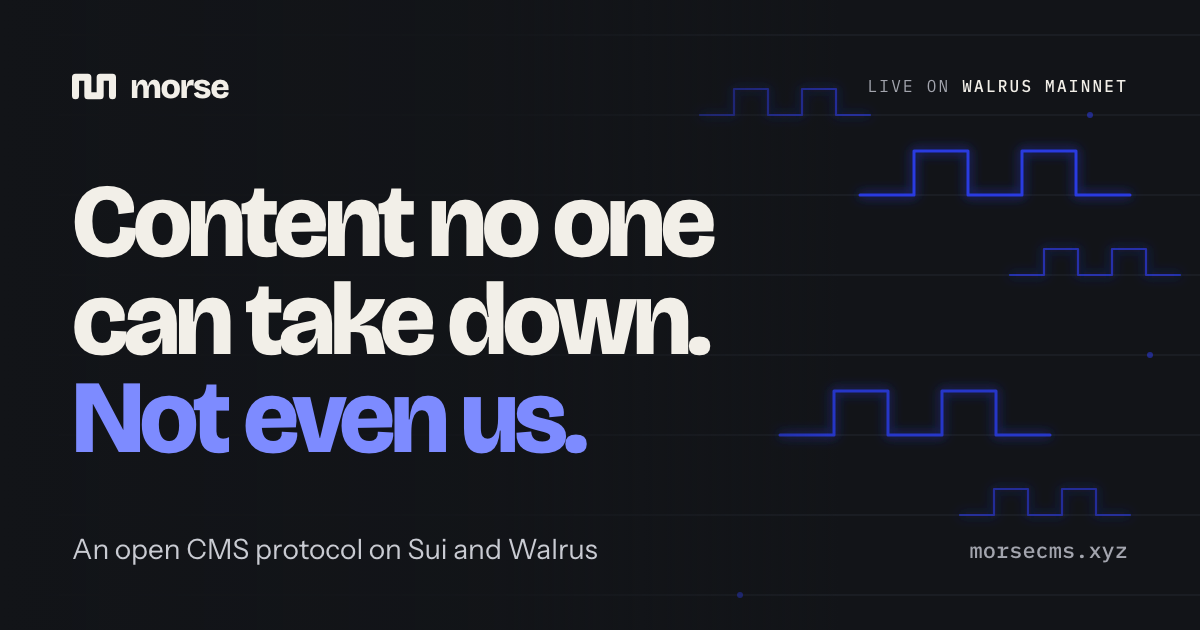
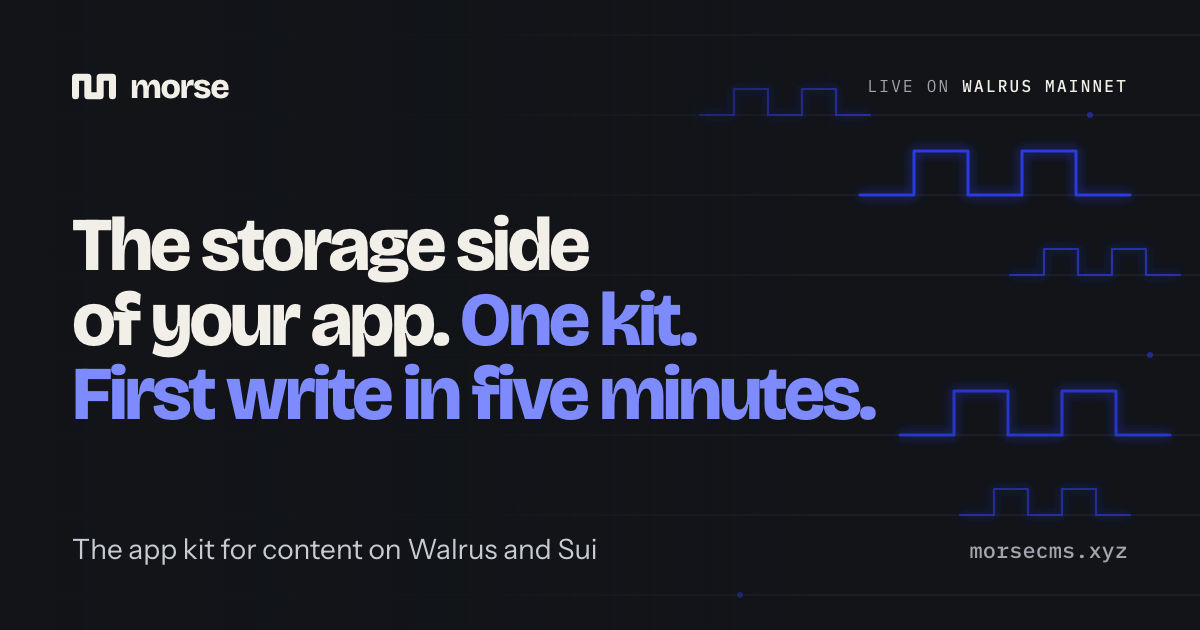
Retitle the page and link preview for the kit
The title, description and Open Graph text still carried the old
positioning, including "Content no one can take down. Not even us.",
which v3 retires because it contradicts the takedown answer. The link
preview card now carries the v3 headline; og.png is re-exported from
design/og-card.html at 1200 by 630.

Changed region(s): [[0.0617, 0.3016, 0.9867, 0.7238], [0.0617, 0.8444, 0.3083, 0.9048], [0.3392, 0.8444, 0.4933, 0.9048]]

diff --git a/index.html b/index.html
@@ -3,8 +3,8 @@
   <head>
     <meta charset="UTF-8" />
     <meta name="viewport" content="width=device-width, initial-scale=1.0" />
-    <title>Morse, an open CMS protocol on Sui and Walrus</title>
-    <meta name="description" content="Morse is an open CMS protocol on Sui and Walrus, live on Walrus Mainnet. Publish from the CLI, the SDK or your agent. Every entry is anchored on-chain, stored on Walrus, and gated by keys you hold." />
+    <title>Morse: the app kit for content on Walrus and Sui</title>
+    <meta name="description" content="Morse is the storage side of an app on Walrus and Sui in one kit: blobs, revisions, encryption and access, behind one SDK, one CLI and a set of contracts." />
     <link rel="canonical" href="https://www.morsecms.xyz/" />
     <link rel="icon" type="image/svg+xml" href="/favicon.svg" />
     <link rel="apple-touch-icon" href="/apple-touch-icon.png" />
@@ -12,13 +12,13 @@
     <meta property="og:type" content="website" />
     <meta property="og:site_name" content="Morse" />
     <meta property="og:url" content="https://www.morsecms.xyz/" />
-    <meta property="og:title" content="Morse, an open CMS protocol on Sui and Walrus" />
-    <meta property="og:description" content="Content no one can take down. Not even us. Live on Walrus Mainnet: publish from the CLI, the SDK or your agent; every entry is anchored on Sui and stored on Walrus." />
+    <meta property="og:title" content="Morse: the app kit for content on Walrus and Sui" />
+    <meta property="og:description" content="The storage side of your app. One kit. First write in five minutes. Live on Walrus Mainnet: store, version, encrypt and gate content with one SDK, one CLI and a set of contracts." />
     <meta property="og:image" content="https://www.morsecms.xyz/og.png" />
     <meta property="og:image:type" content="image/png" />
     <meta property="og:image:width" content="1200" />
     <meta property="og:image:height" content="630" />
-    <meta property="og:image:alt" content="Morse: Content no one can take down. Not even us. An open CMS protocol on Sui and Walrus." />
+    <meta property="og:image:alt" content="Morse: The storage side of your app. One kit. First write in five minutes. The app kit for content on Walrus and Sui." />
     <meta name="twitter:card" content="summary_large_image" />
     <meta name="twitter:site" content="@arcadiasysweb3" />
     <link rel="preconnect" href="https://fonts.googleapis.com" />

diff --git a/design/og-card.html b/design/og-card.html
@@ -63,9 +63,9 @@
       h1 {
         position: relative;
         font-family: 'Bricolage Grotesque', sans-serif;
-        font-size: 104px;
+        font-size: 76px;
         font-weight: 800;
-        line-height: 0.94;
+        line-height: 0.98;
         letter-spacing: -0.045em;
       }
       h1 em { font-style: normal; color: var(--ultra-lift); }
@@ -114,7 +114,7 @@
         <g filter="url(#glow)">
           <path class="pulse lg" transform="translate(860 195)" d="M0 0 H54 V-44 H108 V0 H162 V-44 H216 V0 H270" />
           <path class="pulse sm" transform="translate(1010 275)" opacity="0.7" d="M0 0 H34 V-26 H68 V0 H102 V-26 H136 V0 H170" />
-          <path class="pulse lg" transform="translate(780 435)" opacity="0.85" d="M0 0 H54 V-44 H108 V0 H162 V-44 H216 V0 H270" />
+          <path class="pulse lg" transform="translate(900 435)" opacity="0.85" d="M0 0 H54 V-44 H108 V0 H162 V-44 H216 V0 H270" />
           <path class="pulse sm" transform="translate(960 515)" opacity="0.6" d="M0 0 H34 V-26 H68 V0 H102 V-26 H136 V0 H170" />
           <path class="pulse sm" transform="translate(700 115)" opacity="0.6" d="M0 0 H34 V-26 H68 V0 H102 V-26 H136 V0 H170" />
         </g>
@@ -136,10 +136,10 @@
         <p class="status">Live on <strong>Walrus Mainnet</strong></p>
       </div>
 
-      <h1>Content no one<br />can take down.<br /><em>Not even us.</em></h1>
+      <h1>The storage side<br />of your app. <em>One kit.<br />First write in five minutes.</em></h1>
 
       <div class="row">
-        <p class="tagline">An open CMS protocol on Sui and Walrus</p>
+        <p class="tagline">The app kit for content on Walrus and Sui</p>
         <p class="domain">morsecms.xyz</p>
       </div>
     </div>
